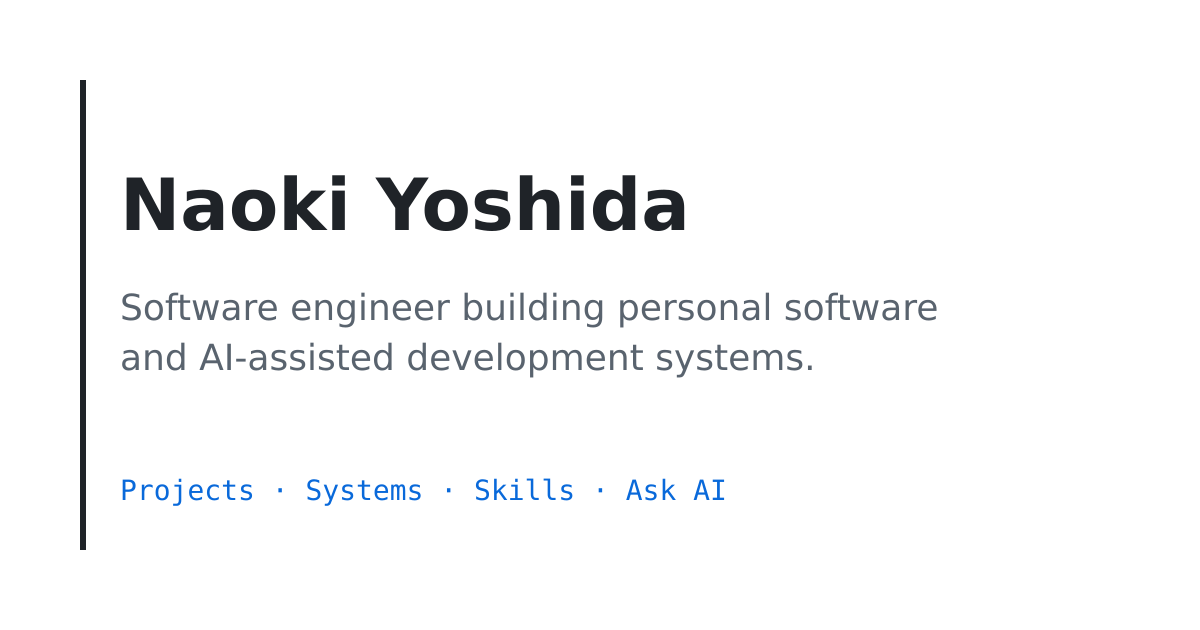
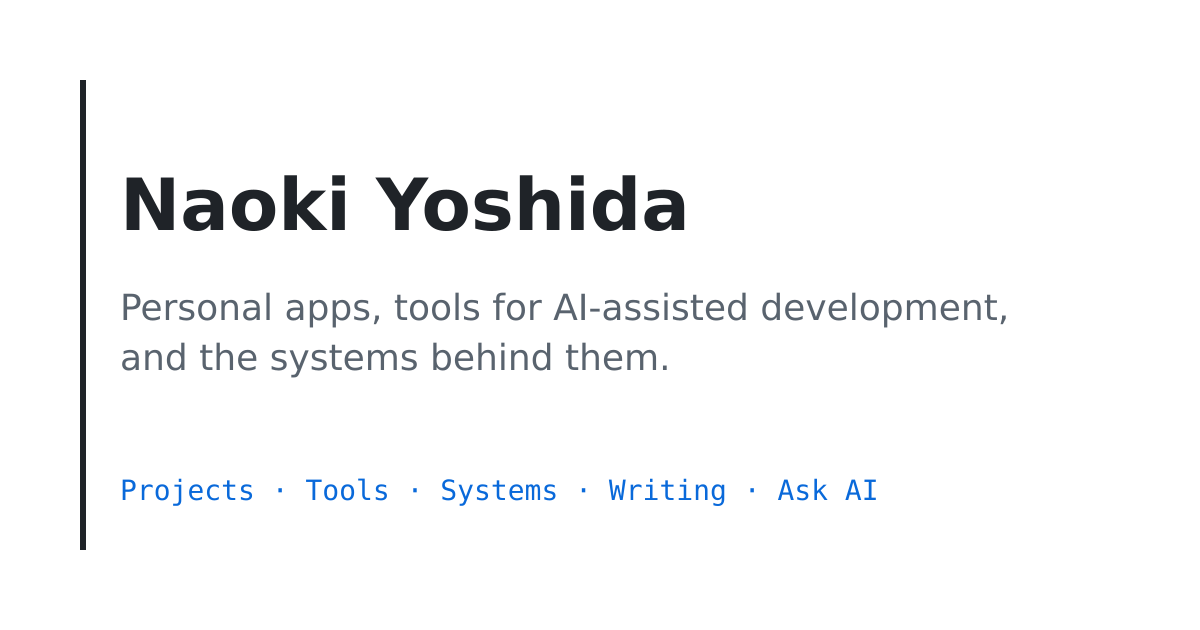
feat: 作ったものだけを紹介する文面に書き直す（T8 の文案）

diff --git a/src/lib/ask.ts b/src/lib/ask.ts
@@ -1,4 +1,5 @@
-// Ask AI ページで訪問者の AI に渡すプロンプト。llms.txt を最初に読ませ、区分を混同しないよう指示する。
+// Ask AI ページで訪問者の AI に渡すプロンプト。llms.txt を最初に読ませ、作ったもの（アプリ・道具・仕組み・記事）を紹介させる。
+// このサイトに無い仕事の内容や技術の評価は、推測で答えさせない（logs/decisions.md 2026-10-20「Ask AI を残す」の見直す条件）。
 // 最初の答えは短い概要と次の質問の候補だけにさせる（長文は読まれないため。2026-10-05 ユーザーの提案、TODO フェーズ5）。
 // 2026-10-06 に本番の 3 つの AI の答えを見たユーザーの感想（原文は SPEC.md §3）を受け、概要に具体的な事実を入れさせ、質問を自然な一文で促す形にした（直し方は Claude の解釈）
 import { SITE } from '../site';
@@ -10,7 +11,7 @@ export const PASTE_SOURCE = '/llms-full.txt';
 const ANSWER_RULES = `Keep your first answer short:
 - An overview in at most 5 bullet points. Each is one sentence
   (about 40 to 60 Japanese characters) with concrete facts
-  such as years, project names, or technologies.
+  such as project names, what they do, or technologies.
 - Then, in one natural sentence, invite me to ask more,
   and give 3 short example questions I might ask next
   (each under about 30 Japanese characters).
@@ -18,6 +19,8 @@ Give details only when I ask a follow-up question.
 
 Write the name as "Naoki Yoshida". Do not guess how it is written in Japanese.
 Do not infer anything that is not stated in those sources.
+This site does not include work history, employers, or skill levels.
+If I ask about them, say that this site does not cover them. Do not guess.
 
 Cite the sources you relied on (links only).
 
@@ -32,10 +35,11 @@ function siteBase(site: URL | undefined): string {
 export function buildAskPrompt(site: URL | undefined): string {
   return `Read ${siteBase(site)}/llms.txt first.
 
-Then introduce ${SITE.name}, a software engineer building
-personal software and AI-assisted development systems.
+Then introduce what ${SITE.name} makes: personal apps,
+tools for AI-assisted development, the systems behind them,
+and technical articles.
 
-Use this site, GitHub projects, technical articles,
+Use this site, GitHub repositories, technical articles,
 and other sources linked from llms.txt.
 
 ${ANSWER_RULES}`;
@@ -47,11 +51,12 @@ ${ANSWER_RULES}`;
  */
 export function buildPastedPrompt(site: URL | undefined): string {
   return `The text after the line "---" is ${siteBase(site)}${PASTE_SOURCE},
-the personal site of ${SITE.name}, a software engineer building
-personal software and AI-assisted development systems.
+the site of ${SITE.name} that shows personal apps,
+tools for AI-assisted development, the systems behind them,
+and technical articles.
 Use only this text. You do not need to open any URL.
 
-Introduce ${SITE.name} based on it.
+Introduce what ${SITE.name} makes, based on it.
 
 ${ANSWER_RULES}`;
 }

diff --git a/src/pages/llms.txt.ts b/src/pages/llms.txt.ts
@@ -37,17 +37,18 @@ export const GET: APIRoute = async ({ site }) => {
     '',
     `> ${SITE.description}`,
     '',
-    'This site is the public view of my work: personal software projects and the systems',
-    '(AI, GitHub, self-made tools) I use to develop, learn, and manage knowledge.',
-    'Links below to pages of this site point to Markdown versions (`.md`); each project and',
+    'This site shows what I make: personal apps (Projects), tools for AI-assisted development (Tools),',
+    'the systems that combine them (Systems), and technical articles (Writing).',
+    'Links below to pages of this site point to Markdown versions (`.md`); each project, tool, and',
     'system page also has an HTML version at the same path without `.md`.',
     'Primary sources are the GitHub repositories and the articles linked below.',
     '',
+    'This site does not include work history, employers, or skill levels.',
     'Do not infer facts that are not stated. Private repositories are described only at the level of their purpose.',
     '',
-    '## Profile',
+    '## About',
     '',
-    `- [Profile](${url('/profile.md')}): ${profile.data.description}`,
+    `- [About](${url('/profile.md')}): ${profile.data.description}`,
     '',
     '## Projects',
     '',

diff --git a/src/site.ts b/src/site.ts
@@ -5,8 +5,9 @@ export const SITE = {
   name: 'Naoki Yoshida',
   /** <title> の末尾と OGP の site_name */
   title: 'Naoki Yoshida',
+  // 職種の言葉は入れない。作っているものだけを書く（logs/decisions.md 2026-10-20「About の一言から仕事の年数を外す」）
   description:
-    'Software engineer building personal software and AI-assisted development systems. 自作アプリと、AI・GitHub・自作ツールを組み合わせた開発・学習の仕組みを公開しています。',
+    'Personal apps, tools for AI-assisted development, and the systems behind them. 生活や学習で使うアプリと、AI と開発するための道具・仕組み、その記録の技術記事を公開しています。',
   github: 'n-yoshida-dev',
   githubUrl: 'https://github.com/n-yoshida-dev',
   qiitaUrl: 'https://qiita.com/n-yoshida-dev',

diff --git a/public-profile/profile.md b/public-profile/profile.md
@@ -1,18 +1,18 @@
 ---
-title: Profile
-description: Naoki Yoshida。生活や学習で使うツールと、AI と開発する仕組みを作り、Java / Spring Boot を学んでいます。
-updated: 2026-10-20
-tagline: 生活や学習で使うツールと、AI と開発する仕組みを作っています。
+title: About
+description: Naoki Yoshida。生活や学習で使うアプリと、AI と開発するための道具・仕組みを作り、その記録を技術記事に書いています。
+updated: 2026-10-21
+tagline: 生活や学習で使うアプリと、AI と開発するための道具を作っています。
 highlights:
-  - label: 個人で作っているもの
-    title: 生活や学習で使うツールを、AI と作っている
+  - label: 作っているもの
+    title: 生活や学習で使うアプリを、AI と作っている
     detail: 理解度を見える化する skill-matrix、次に読む 1 冊を AI が提案する Reading Log など。何を作るかは自分で決める
-  - label: AI と開発する仕組み
+  - label: 開発の道具
     title: AI に開発を任せるための道具を、自分で作っている
     detail: 秘密情報のコミットを止めるフックや、マージ前に検品するレビュー役を Claude Code のプラグインにまとめ、どのアプリにも同じものを入れている
-  - label: 学んでいること
-    title: Java / Spring Boot を自分で書いて学んでいる
-    detail: 学習用の OrgFlow。バイブコーディングはせず、AI と壁打ちしながら実装
+  - label: 書いているもの
+    title: 作りながら学んだことを、連載の記事に書いている
+    detail: 学習用の OrgFlow（Java / Spring Boot）の設計と実装を Qiita に連載。バイブコーディングはせず、AI と壁打ちしながら自分で書いている
 links:
   - label: GitHub
     url: https://github.com/n-yoshida-dev
@@ -28,31 +28,30 @@ links:
     icon: book
 ---
 
-## どんな人か
+## このサイトについて
 
-日本のソフトウェアエンジニアです。生活や学習で使うツールと、AI と開発する仕組みを作り、その記録を記事に書いています。
+生活や学習で使うアプリと、AI と開発するための道具・仕組みを作り、その記録を記事に書いています。
+このサイトは、作ったものだけを紹介する場所です。仕事の内容や技術の評価は載せていません。
 
-## 個人で作っているもの
+## 作っているもの
 
-- **自分のためのツール**：学習の理解度を可視化する skill-matrix、読書記録 Reading Log、家計・タスク・メールの半自動化。何を作るかと仕様は自分で決め、コードが要る部分は AI（Claude Code）が書いています
-- **AI と開発する仕組み**：秘密情報のコミットを止めるフック、PR の作成からマージまでの手順を書いたスキル、マージ前に検品するレビュー役を Claude Code のプラグインにまとめ、どのアプリにも同じものを入れています。AI 間で共有する個人コンテキストのリポジトリもあります
+- **自分のためのアプリ**：学習の理解度を可視化する skill-matrix、読書記録 Reading Log、家計・タスク・メールの半自動化。何を作るかと仕様は自分で決め、コードが要る部分は AI（Claude Code）が書いています。一覧は [Projects](/projects)
+- **開発の道具**：秘密情報のコミットを止めるフック、PR の作成からマージまでの手順を書いたスキル、マージ前に検品するレビュー役を Claude Code のプラグインにまとめ、どのアプリにも同じものを入れています。新しいアプリを始めるときのテンプレートもあります。一覧は [Tools](/tools)
+- **仕組み**：アプリと道具の組み合わせ方。AI 間で共有する個人コンテキストのリポジトリや、学習・読書の仕組みがあります。[Systems](/systems) にあります
 
-一覧は [Projects](/projects)、組み合わせ方は [Systems](/systems) にあります。
+## 書いているもの
 
-## 学んでいること
-
-2026 年 3 月から、学習用の [OrgFlow](/projects/orgflow)（Java / Spring Boot のワークフロー API）で、設計力・コーディング力・開発基盤や環境を作る力を身につけています。
-バイブコーディングはせず、AI と壁打ちしながら自分で実装しています。並行して React を学習中です。
+学習用の [OrgFlow](/projects/orgflow)（Java / Spring Boot のワークフロー API）で、設計・実装・開発基盤づくりを自分で書いて学び、その過程を Qiita に連載しています。
+バイブコーディングはせず、AI と壁打ちしながら自分で実装しています。記事の一覧は [Writing](/writing) にあります。
 
 ## 開発の進め方
 
 - **設計判断を文書に残す**：ADR（Architecture Decision Record）、OpenAPI を先に書く契約先行、ER 図を概念・論理・物理の 3 段で持つ
-- **AI との分担を作品ごとに決める**：自作ツールはコードを AI が書き、何を作るかと判断は自分。学習用の OrgFlow は AI を壁打ち相手にして自分で書く
-- **仕組みで防ぐ**：秘密情報のコミット阻止フック、CI、マージ前の受け入れレビュー、公開プロフィールの禁止語スキャン
+- **AI との分担を作品ごとに決める**：自作アプリはコードを AI が書き、何を作るかと判断は自分。学習用の OrgFlow は AI を壁打ち相手にして自分で書く
+- **仕組みで防ぐ**：秘密情報のコミット阻止フック、CI、マージ前の受け入れレビュー、公開する文章の禁止語スキャン
 - **根拠のない「分かった」を書かない**：理解度は根拠（確認問題・自分の言葉での説明・実装）付きでしか上げない。仕組みは [Learning System](/systems/learning-system) にあります
 
-## このサイトについて
+## 公開している範囲
 
-このサイトは「公開してよい情報だけ」を明示的に置いた場所です。
-非公開のリポジトリ（学習ログ・個人コンテキスト・雑務）から、公開可能な部分だけを抜き出して手で書いています。
+非公開のリポジトリ（学習ログ・個人コンテキスト・雑務）は、存在と目的だけを書いています。中身は載せていません。
 AI に調べさせたい場合は [Ask AI](/ask) と [llms.txt](/llms.txt) を使ってください。
